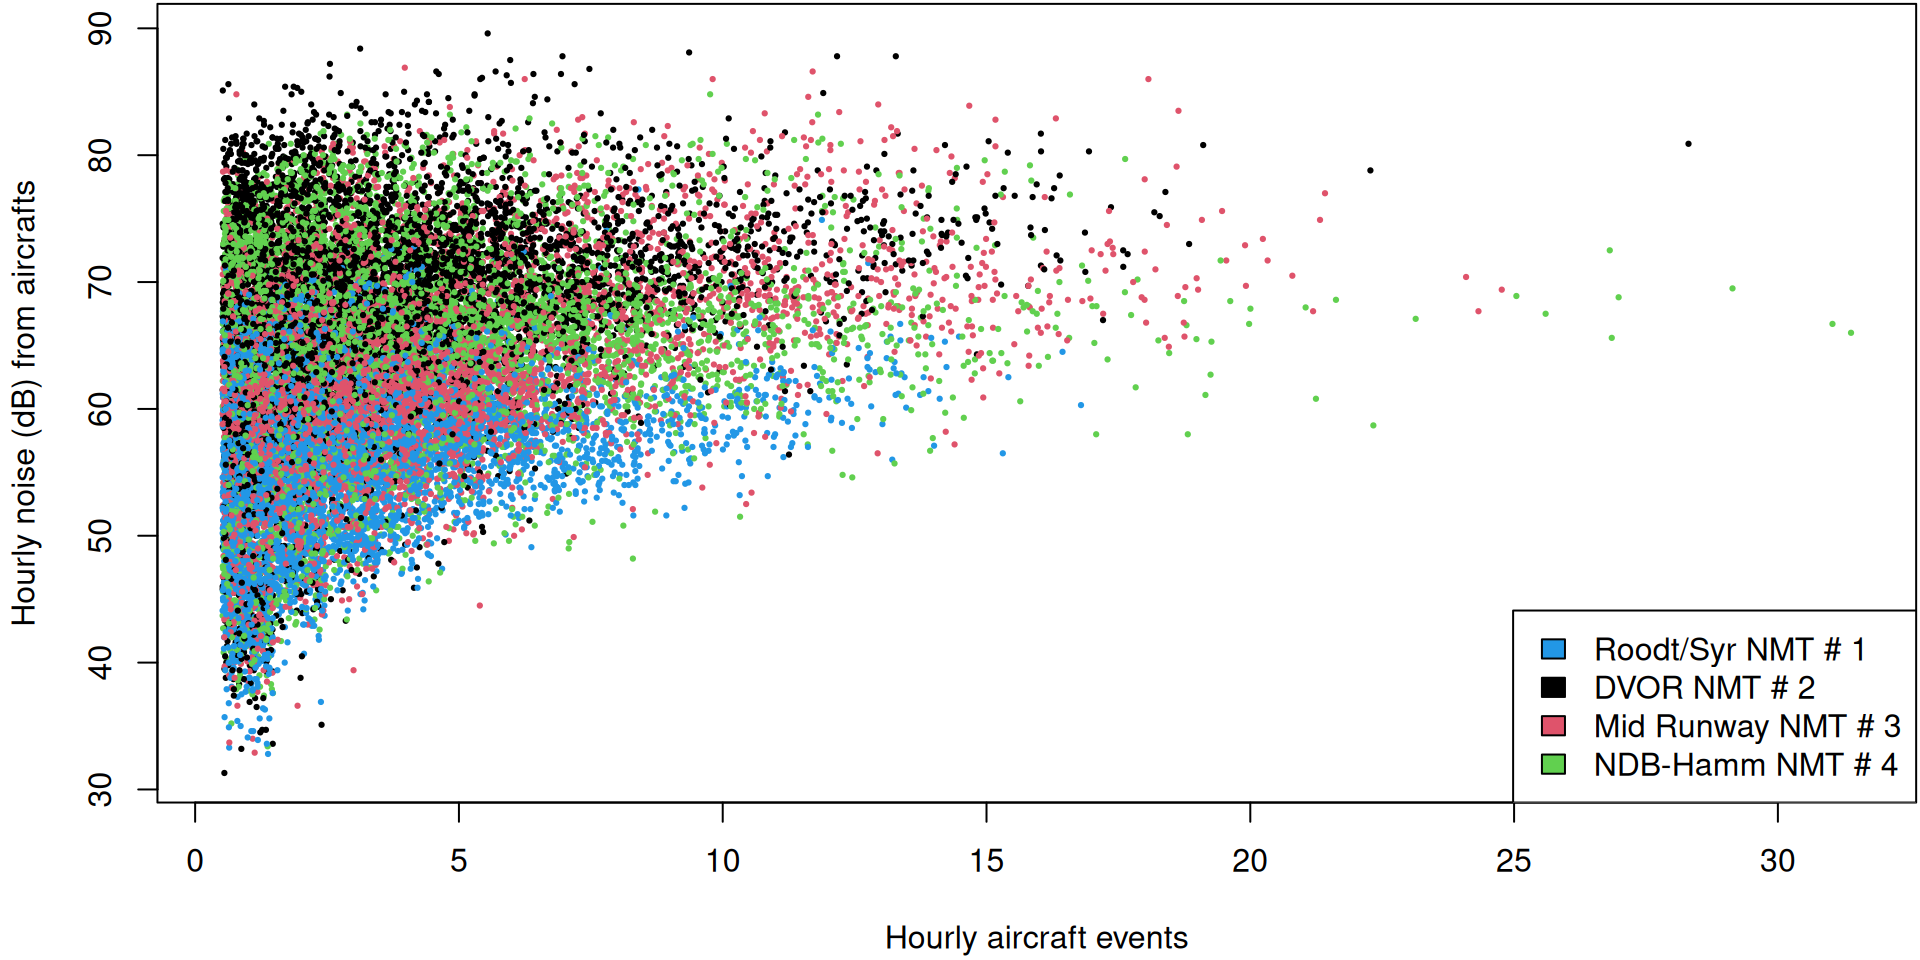
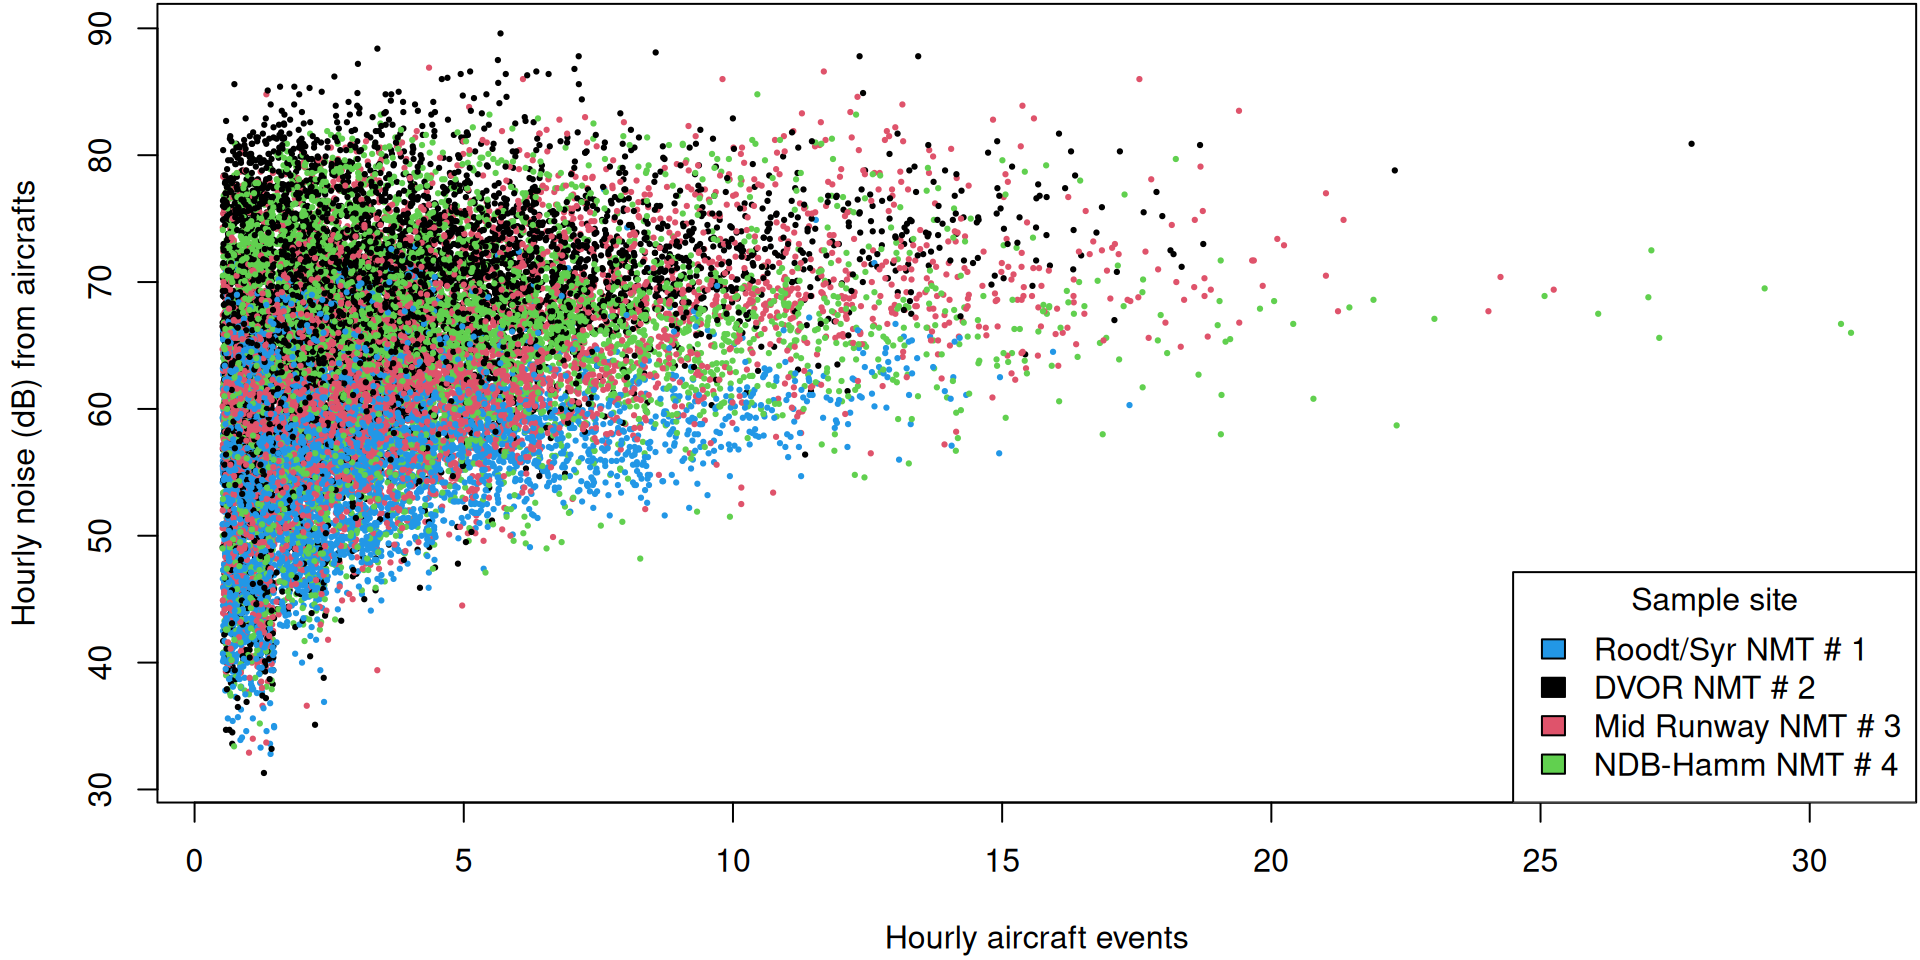
clarified

diff --git a/analysis/presentation.html b/analysis/presentation.html
@@ -402,9 +402,10 @@ Cyrille Médard de Chardon
 </div>
 
 </section>
-<section id="problem-1500-pages-like-this" class="slide level2">
-<h2>Problem ~ 1500 pages like this</h2>
-<p><img data-src="imgs/pdf_example.png" title="A screenshot of a PDF page with headings, a table, and graphs" style="width:100.0%"> Source: <a href="https://data.public.lu/fr/datasets/archives-bruit-des-avions/">Administration de la Navigation Aérienne</a></p>
+<section id="problem-12200-pages-over-8-years-of-data" class="slide level2">
+<h2>Problem: 12,200+ pages (over 8 years of data)</h2>
+<p><img data-src="imgs/pdf_example.png" title="A screenshot of a PDF page with headings, a table, and graphs" style="width:70.0%"><br>
+Source: <a href="https://data.public.lu/fr/datasets/archives-bruit-des-avions/">Administration de la Navigation Aérienne</a></p>
 </section>
 <section id="one-solution-using-r" class="slide level2">
 <h2>One solution (using R)</h2>
@@ -923,25 +924,30 @@ It’s often off by 1 or 2.</p>
 <img data-src="presentation_files/figure-revealjs/unnamed-chunk-9-1.png" width="960" class="r-stretch"><p>“Noise above 70 dB over a prolonged period of time may start to damage your hearing. Loud noise above 120 dB can cause immediate harm to your ears.”<br>
 - <a href="https://www.cdc.gov/nceh/hearing_loss/what_noises_cause_hearing_loss.html">CDC</a></p>
 </section>
-<section id="relationship-between-events-and-noise" class="slide level2">
-<h2>Relationship between events and noise</h2>
+<section id="relationship-between-events-and-noise-2020-data" class="slide level2">
+<h2>Relationship between events and noise (2020 data)</h2>
 
-<img data-src="presentation_files/figure-revealjs/unnamed-chunk-10-1.png" width="960" class="r-stretch"><p>I’m not sure where the locations are exactly.</p>
+<img data-src="presentation_files/figure-revealjs/unnamed-chunk-10-1.png" width="960" class="r-stretch"><p>I’m not sure where the locations are.</p>
 </section>
 <section id="conclusion" class="slide level2">
 <h2>Conclusion</h2>
 <div class="columns">
 <div class="column" style="width:50%;">
-<h3 id="next-steps">Next steps</h3>
+<h3 id="parsing-pdfs">Parsing PDFS</h3>
 <ul>
-<li>Process the other years of data (2012-2021)</li>
-<li>Analyze the data</li>
+<li>Easy to start / getting some data</li>
+<li>Extracting boxes works well</li>
+<li>Aligning text into rows can be challenging</li>
+<li>Data munging is heavy</li>
+<li>Overall a nice visual exercise that is methodologically interesting</li>
 </ul>
 </div><div class="column" style="width:50%;">
-<h3 id="pdfs">PDFS</h3>
+<h3 id="next-steps">Next steps</h3>
 <ul>
-<li>Relatively easy to parse (here)</li>
-<li>A nice visual and methodologically interesting task</li>
+<li>Process the other years of data (2012-2020) ✅</li>
+<li>Upload cleaned CSV to <a href="https://data.public.lu/fr/datasets/archives-bruit-des-avions/">data.public.lu</a> ✅</li>
+<li>Georeference the sensor locations</li>
+<li>Analyze 2012-2020 data</li>
 </ul>
 </div>
 </div>
